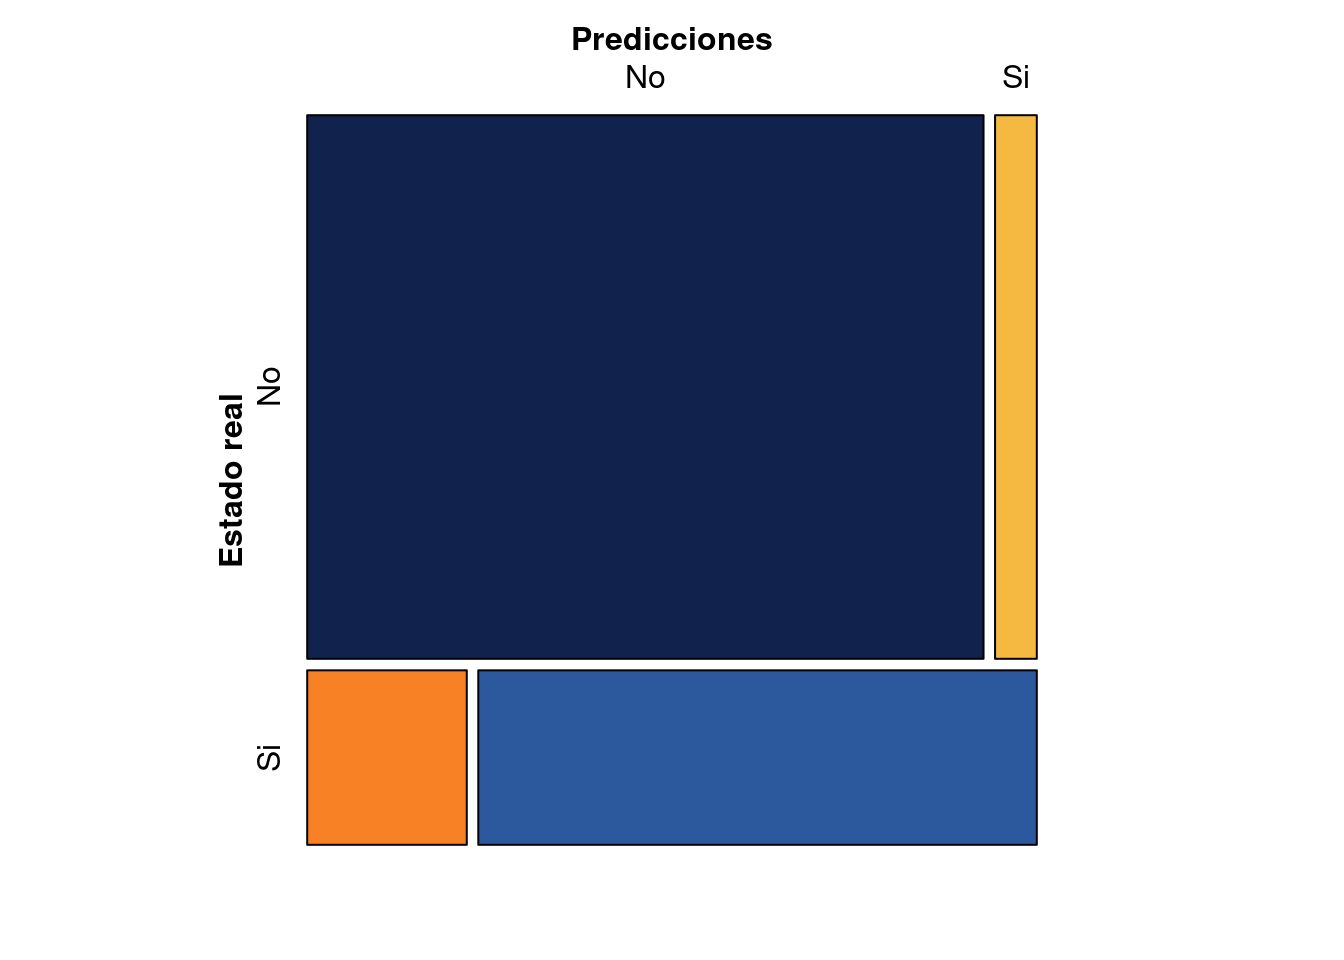
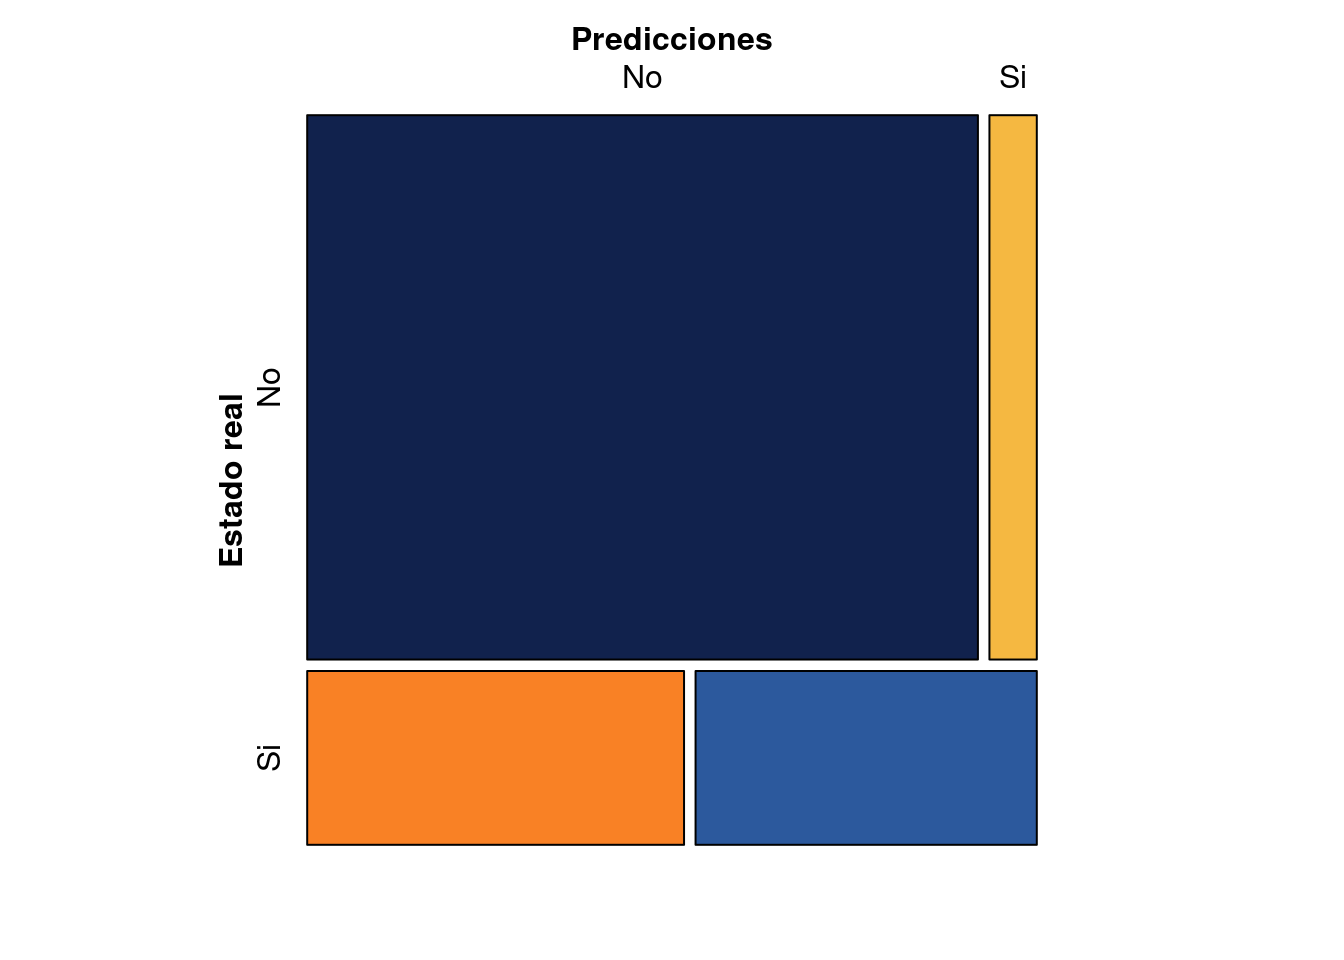
ajustes logit

diff --git a/docs/recurso320.html b/docs/recurso320.html
@@ -338,41 +338,41 @@ $(document).ready(function () {
 <code>glm()</code></p>
 <p></br></p>
 <pre class="r"><code>library(tidyverse)
-data(&quot;dataMat&quot;)
-dataMat %&gt;% 
-glm(gana ~ nota , family = binomial(link = &quot;logit&quot;), data = .) -&gt; modelo1
+data(&quot;matriculah&quot;)
+matriculah = sample(matriculah, 1000, replace = TRUE)  # se realiza un proceso bootstrap
+matriculah %&gt;% 
+glm(honor ~ matematicas , family = binomial(link = &quot;logit&quot;), data = .) -&gt; modelo1
 summary(modelo1) </code></pre>
-<p></br></p>
 <pre>
 Call:
-glm(formula = gana ~ nota, family = binomial(link = "logit"), 
-    data = dataMat)
+glm(formula = honor ~ matematicas, family = binomial(link = "logit"), 
+    data = .)
 
 Deviance Residuals: 
-     Min        1Q    Median        3Q       Max  
--1.88808  -0.29466  -0.06645  -0.00780   2.97082  
+    Min       1Q   Median       3Q      Max  
+-1.9618  -0.7065  -0.4140  -0.1652   2.5208  
 
 Coefficients:
             Estimate Std. Error z value Pr(>|z|)    
-(Intercept) -29.6819     2.1978  -13.51   <2e-16 ***
-nota          8.5699     0.6462   13.26   <2e-16 ***
+(Intercept) -9.04461    0.63678  -14.20   <2e-16 ***
+matematicas  0.14415    0.01113   12.95   <2e-16 ***
 ---
 Signif. codes:  0 ‘***’ 0.001 ‘**’ 0.01 ‘*’ 0.05 ‘.’ 0.1 ‘ ’ 1
 
 (Dispersion parameter for binomial family taken to be 1)
 
-Null deviance: 1102.16  on 999  degrees of freedom
-Residual deviance:  440.94  on 998  degrees of freedom
-AIC: 444.94
+    Null deviance: 1113.55  on 999  degrees of freedom
+Residual deviance:  877.63  on 998  degrees of freedom
+AIC: 881.63
 
-Number of Fisher Scoring iterations: 7
+Number of Fisher Scoring iterations: 5
 </pre>
 <p></br></br></p>
 <p>El modelo estimado en su forma original :</p>
 <p></br></p>
 <p><span class="math display">\[\ln \Bigg(
 \dfrac{\widehat{P_{i}}}{1-\widehat{P_{i}}} \Bigg) = \widehat{\beta_{0}}
-+ \widehat{\beta_{1}} \hspace{.2cm}x_{i} = -29.6819  + 8.5699
++ \widehat{\beta_{1}} \hspace{.2cm}x_{i} = -9.04461  + 0.14415
 \hspace{.2cm} x_{i}\]</span> </br></br></p>
 <p>Utilizamos la función inversa del logaritmo</p>
 <p></br></p>
@@ -393,18 +393,18 @@ class="math inline">\(X\)</span> de la siguiente forma:</p>
 <p></br></p>
 <p><span class="math display">\[\Bigg(
 \dfrac{\widehat{P_{i}}}{1-\widehat{P_{i}}} \Bigg) = \exp{\big\{
--29.6819  + 8.5699 \hspace{.2cm}x_{i}}\big\}\]</span> </br></br></p>
+-9.04461  + 0.14415 \hspace{.2cm}x_{i}}\big\}\]</span> </br></br></p>
 <p>Un estudiante con un puntaje de en matemáticas de <span
 class="math inline">\(60\)</span> tendrá una razón <span
 class="math inline">\(Odds\)</span> de :</p>
 <p></br></p>
 <p><span class="math display">\[\Bigg(
 \dfrac{\widehat{P_{i}}}{1-\widehat{P_{i}}} \Bigg) = \exp{\big\{
--29.6819  + 8.5699 \hspace{.2cm} \times 3.6}\big\}
-=3.221155\]</span></p>
+-9.04461  + 0.14415 \hspace{.2cm} \times 70}\big\} =
+2.84593\]</span></p>
 <p>Lo que indica que un estudiante con puntaje en matemáticas igual a
-70, tiene 3.2 veces más probabilidad de obtener la matricula de honor en
-comparación de no tenerla.</p>
+70, tiene 2.85 veces más probabilidad de obtener la matricula de honor
+en comparación de no tenerla.</p>
 <p></br></br></p>
 <div id="pruebas-de-significancia-individual" class="section level2">
 <h2><span style="color:#034A94"><strong>Pruebas de significancia
@@ -422,8 +422,8 @@ class="math inline">\(H_1 : \beta_{i} \neq 0\)</span></p>
 <pre>
 Coefficients:
             Estimate Std. Error z value Pr(>|z|)    
-(Intercept) -29.6819     2.1978  -13.51   <2e-16 ***
-nota          8.5699     0.6462   13.26   <2e-16 ***
+(Intercept) -9.04461    0.63678  -14.20   <2e-16 ***
+matematicas  0.14415    0.01113   12.95   <2e-16 ***
 ---
 Signif. codes:  0 ‘***’ 0.001 ‘**’ 0.01 ‘*’ 0.05 ‘.’ 0.1 ‘ ’ 1
 </pre>
@@ -446,11 +446,11 @@ esperado del logaritmo de la razón de probabilidades para un estudiante
 con nota cero en matemáticas. Para leerlo en términos de razón de
 probabilidades realizamos la siguiente transformación:</p>
 <p></br></p>
-<pre><code>exp{b0} = exp{-29.6819} =  4.810186e-11</code></pre>
+<pre><code>exp{b0} = exp{-9.04461} =  0.0001180255</code></pre>
 <p></br></p>
 <p>Cuando <span class="math inline">\(x=0\)</span> el valor de la razón
 de probabilidades es de <span
-class="math inline">\(0.00000000000128\)</span>, indicando que la
+class="math inline">\(0.0001180255\)</span>, indicando que la
 probabilidad <span class="math inline">\((1-P_{i})\)</span> es mucho mas
 grande que <span class="math inline">\(P_{i}\)</span> . Lo cual es
 consecuente, dado que obtener una nota de <span
@@ -467,7 +467,7 @@ nota de matemáticas sobre la probabilidad realizamos el siguiente
 cálculo:</p>
 <p></br></p>
 <!-- $$\exp{\{ 0.1563404 \}} = 1.169224$$ -->
-<pre><code>exp(8.5699) =  5270.603</code></pre>
+<pre><code>exp(0.14415) =  1.155057</code></pre>
 <p></br></br></p>
 <p><span class="math inline">\(\widehat{\beta}_{1}\)</span> indica el
 cambio en <span class="math inline">\(ln(p/(1-p))\)</span> debido a un
@@ -476,17 +476,17 @@ que es necesario sacar la función inversa al logaritmo que es la función
 exponencial (<code>exp()</code>)</p>
 <p>Por cada unidad de aumento de <span class="math inline">\(x\)</span>
 los <span class="math inline">\(odds\)</span> de obtener matricula se
-incrementan en : <span class="math inline">\(1.17\)</span> unidades</p>
-<pre><code>exp(b1) =  928.9494</code></pre>
+incrementan en : <span class="math inline">\(1.16\)</span> unidades</p>
+<pre><code>exp(b1) =  2734.118</code></pre>
 <p></br></p>
 <p>Un intervalo de confianza para los coeficientes se puede obtener
 mediante :</p>
 <p></br></p>
 <pre class="r"><code>library(MASS)
 confint(object = modelo1, level = 0.95 )</code></pre>
-<pre><code>                2.5 %     97.5 %
-(Intercept) -27.27703 -20.614500
-nota          5.90493   7.873092</code></pre>
+<pre><code>                 2.5 %     97.5 %
+(Intercept) -31.566042 -23.785796
+nota          6.841565   9.123502</code></pre>
 <p></br></br></p>
 </div>
 </div>
@@ -506,20 +506,21 @@ la suma desviaciones del modelo nulo con la suma de las desviaciones de
 los residuales que se presentan en el resumen del modelo</p>
 <p></br></p>
 <pre>
-Null deviance    : 1102.16  on 999  degrees of freedom
-Residual deviance:  440.94  on 998  degrees of freedom
+    Null deviance: 1113.55  on 999  degrees of freedom
+Residual deviance:  877.63  on 998  degrees of freedom
+AIC: 881.63
 </pre>
 <p><span class="math display">\[
-X^2 = \text{ Null deviance} - \text{ Residual deviance} = 1122.468 -
-518.5805 = 663.88
+X^2 = \text{ Null deviance} - \text{ Residual deviance} = 1113.55 -
+877.63 = 235.92
 \]</span></p>
 <pre class="r"><code>with(modelo1, null.deviance - deviance )</code></pre>
-<pre><code>[1] 551.9053</code></pre>
+<pre><code>[1] 663.7366</code></pre>
 <p></br></p>
 <p>Que tiene una distribución <span class="math inline">\(\chi^2 _{v:
 gl_{null} -gl_{residual}}\)</span></p>
 <pre class="r"><code>with(modelo1, pchisq(null.deviance - deviance , df.null-df.residual, lower.tail = FALSE))</code></pre>
-<pre><code>[1] 4.847337e-122</code></pre>
+<pre><code>[1] 2.29994e-146</code></pre>
 <p></br></p>
 <p>Lo cual indica que se rechaza <span
 class="math inline">\(H_0\)</span>, en favor de <span

diff --git a/docs/recurso330.html b/docs/recurso330.html
@@ -351,14 +351,18 @@ class="math inline">\(Y\)</span>, obtenemos:</p>
         |                predicción    |  
         |         |   No    |    Si    |
 --------|---------|---------|----------|   
-Estado  |  No     |     723 |      37  |
-real    |  Si     |      53 |     187  |
+Estado  |  No     |     708 |      50  |
+real    |  Si     |     127 |      115 |
 
 </pre>
 <p></br></br></p>
 <p>Representados por el siguiente gráfico de mosaico:</p>
 <p></br></p>
 <p><img src="recurso330_files/figure-html/unnamed-chunk-1-1.png" width="672" /></p>
+<pre><code>           Predicciones
+Estado real  No  Si
+         No 708  50
+         Si 127 115</code></pre>
 <p></br></br></p>
 <p>Los colores azules representan la proporción de clasificaciones
 correcta :</p>
@@ -385,10 +389,10 @@ Positovo : <strong>FP</strong></p></li>
 valor <span class="math inline">\(R^2\)</span></p>
 <p></br></p>
 <p><span class="math display">\[
-\dfrac{723+187}{723+53+37+187} = \dfrac{910}{1000} = 0.910
+\dfrac{708+115}{708+127+50+115} = \dfrac{823}{1000} = 0.823
 \]</span> Este valor cuenta como el <span
 class="math inline">\(R^2\)</span> , es decir que el modelo explica
-(clasifica de manera adecuada) el 91% de los casos.</p>
+(clasifica de manera adecuada) el 82.3% de los casos.</p>
 <p></br></br></p>
 <p>Este valor se puede obtener de la matriz de confusión que se obtiene
 con una data que no se ha empleado en la estimación del modelo</p>
@@ -411,14 +415,23 @@ forma:</p>
 <p></br></br></p>
 <p><img src="img/matriz_confusion.png" width="80%" style="display: block; margin: auto;" /></p>
 <p></br></br></p>
-<pre><code>[1] 600 400</code></pre>
+<p>Se procede a dividir la data en dos partes</p>
+<ul>
+<li>train con el 60% de los registros</li>
+<li>test con el 40% de los registros</li>
+</ul>
 <p></br></br></p>
+<p>Se procede a estimar el modelo con la data train y luego emplearlo
+para realizar las predicciones con la data test, para finalmente evaluar
+el resultado utilizando para ello la matriz de confusión.</p>
 <pre class="r"><code>library(tidyverse)
-valor_pronosticado &lt;- predict(modelo1,test,type = &quot;response&quot;)
+glm(honor ~ matematicas , family = binomial(link = &quot;logit&quot;), data = train) -&gt; modelo2
+
+valor_pronosticado &lt;- predict(modelo2,test,type = &quot;response&quot;)
 niveles_pronosticados &lt;- ifelse(valor_pronosticado &gt;0.5, &quot;Si&quot;,&quot;No&quot;) %&gt;%
                              factor(.)
 
-rendimiento_data&lt;-data.frame(observados=test$gana,
+rendimiento_data&lt;-data.frame(observados=test$honor,
                              predicciones= niveles_pronosticados)
 
 Positivos &lt;- sum(rendimiento_data$observados==&quot;Si&quot;)
@@ -433,16 +446,19 @@ FN&lt;-sum(rendimiento_data$observados==&quot;Si&quot; &amp; rendimiento_data$pr
 
 matriz_confusion=matrix(c(VP, FP, FN,VN), nrow=2)
 
-rownames(matriz_confusion) = c(&quot; No &quot;, &quot; Si    &quot;)
-colnames(matriz_confusion) = c(&quot;No&quot;, &quot;Si&quot;)
-# matriz_confusion</code></pre>
+rownames(matriz_confusion) = c(&quot; Si &quot;, &quot; No    &quot;)
+colnames(matriz_confusion) = c(&quot;Si&quot;, &quot;No&quot;)
+matriz_confusion</code></pre>
+<pre><code>        Si  No
+ Si     48  57
+ No     23 272</code></pre>
 <p></br></br></p>
 <pre>
         |                predicción             |  
         |         |   Si       |    No          |
 --------|---------|------------|----------------|   
-Estado  |  Si     |   81  (VP) |     22   (FN)  |
-real    |  No     |   13  (FP) |     284  (VN)  |
+Estado  |  Si     |   48  (VP) |     57   (FN)  |
+real    |  No     |   23  (FP) |     272  (VN)  |
 </pre>
 <p></br></p>
 <blockquote>
@@ -471,7 +487,7 @@ de verdaderos positivos y de falsos positivos:</p>
 <p><span class="math display">\[
 \text{Exactitud} = \dfrac{\text{aciertos en
 clasificación}}{\text{Total}} = \dfrac{VP + VN}{\text{Total}} =
-\dfrac{81+281}{400} = 0.905
+\dfrac{48+272}{400} = 0.80
 \]</span></p>
 </div>
 <p></br></br></p>
@@ -484,7 +500,7 @@ error</strong></span></h3>
 <p><span class="math display">\[
 \text{Exactitud} = \dfrac{\text{no aciertos en
 clasificación}}{\text{Total}} = \dfrac{FP + FN}{\text{Total}} =
-\dfrac{13+22}{400} = 0.0875
+\dfrac{23+57}{400} = 0.20
 \]</span></p>
 <p></br></br></p>
 </div>
@@ -496,7 +512,7 @@ positivos</p>
 <div class="content-box-blue">
 <p><span class="math display">\[
 \text{Sensibilidad} = \dfrac{VP}{\text{Total positivos}} =
-\dfrac{81}{103} = 0.786
+\dfrac{48}{105} = 0.457
 \]</span></p>
 </div>
 <p></br></br></p>
@@ -509,7 +525,7 @@ negativos</p>
 <div class="content-box-blue">
 <p><span class="math display">\[
 \text{Especificidad} = \dfrac{\text{VN}}{\text{Total negativos}} =
-\dfrac{284}{297} = 0.956
+\dfrac{272}{295} = 0.922
 \]</span></p>
 </div>
 <p></br></br></p>
@@ -520,7 +536,7 @@ negativos</p>
 <div class="content-box-blue">
 <p><span class="math display">\[
 \text{Precision} = \dfrac{\text{VP}}{\text{Total clasificados
-positivos}} = \dfrac{81}{94} = 0.862
+positivos}} = \dfrac{48}{71} = 0.676
 \]</span></p>
 </div>
 <p></br></br></p>
@@ -532,7 +548,7 @@ negativo</strong></span></h3>
 <div class="content-box-blue">
 <p><span class="math display">\[
 \text{Valor de prediccion negativo} = \dfrac{\text{VN}}{\text{Total
-clasificados negativos}} = \dfrac{284}{306} = 0.928
+clasificados negativos}} = \dfrac{272}{329} = 0.827
 \]</span></p>
 </div>
 <p></br></br></p>
@@ -553,17 +569,17 @@ indicadores %&gt;%
   round(.,3)</code></pre>
 <pre>
                            
-Exactitud                  0.912
+Exactitud                   0.800
 
-Tasa de Error              0.088
+Tasa de Error               0.200
 
-Sensibilidad               0.786
+Sensibilidad                0.457
 
-Especificidad              0.956
+Especificidad               0.922
 
-Precisión                  0.862
+Precisión                   0.676
 
-Valor predicción negativo  0.928
+Valor predicción negativo   0.827
 
 </pre>
 <p></br></br></p>
@@ -617,7 +633,7 @@ importante y afecta a los indicadores</li>
 <h3><strong>Curva ROC</strong></h3>
 <p></br></p>
 <pre class="r"><code>library(pROC)
-curva_ROC &lt;- roc(test$gana, valor_pronosticado)
+curva_ROC &lt;- roc(test$honor, valor_pronosticado)
 auc&lt;- round(auc(curva_ROC, levels =c(0,1), direction = &quot;&lt;&quot;),4) # 0.9177
 
 ggroc(curva_ROC, colour = &quot;#FF7F00&quot;, size=2)+
@@ -626,7 +642,7 @@ xlab(&quot;Especificidad&quot;)+
 ylab(&quot;Sensibilidad&quot;)  </code></pre>
 <p><img src="recurso330_files/figure-html/unnamed-chunk-6-1.png" width="672" /></p>
 <p>El área comprendida entre la curva ROC y la diagonal del cuadrado
-(AUC = 0.9234), indica un buen ajuste del modelo de predicción.</p>
+(AUC = 0.8292), indica un buen ajuste del modelo de predicción.</p>
 </div>
 </div>
 
